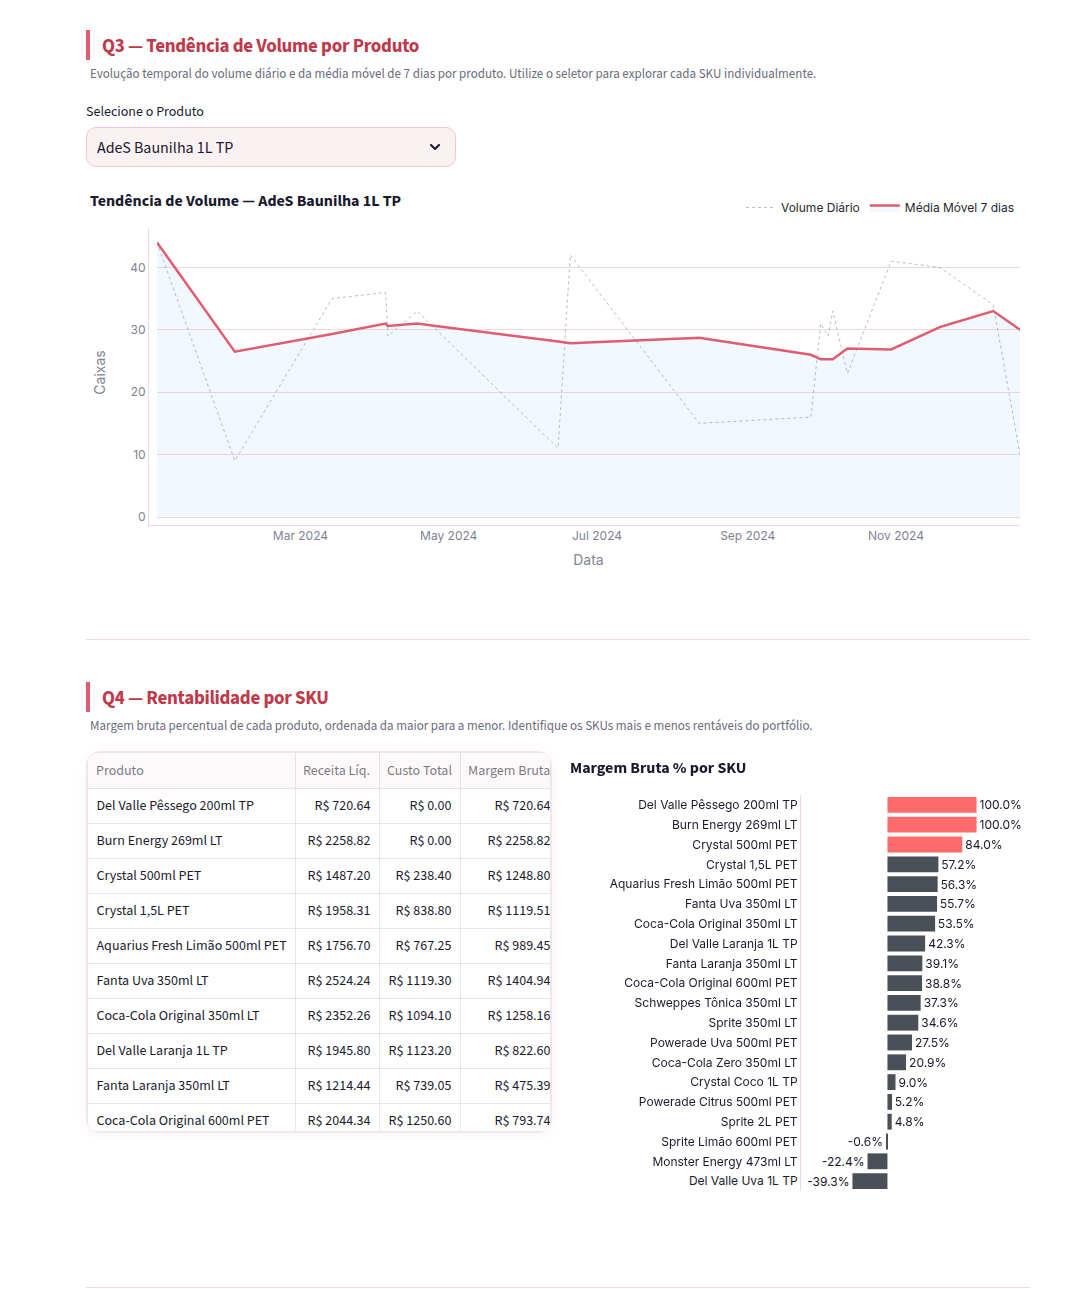
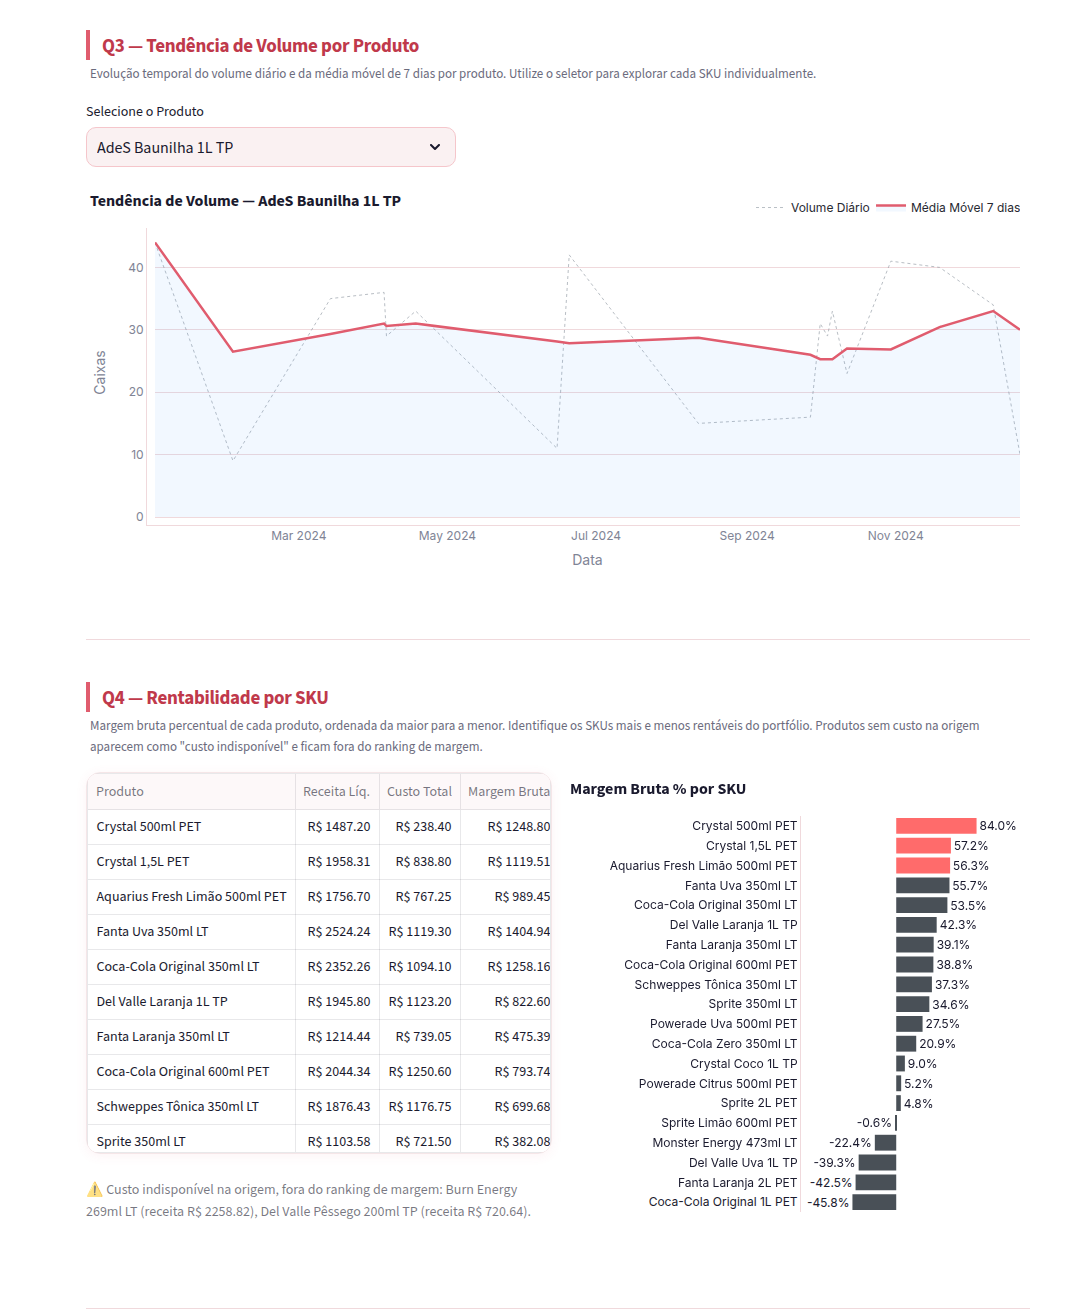
feat: Implement handling for unavailable cost and price in product data (DQ-09)

diff --git a/streamlit/main.py b/streamlit/main.py
@@ -170,7 +170,7 @@ try:
     df_q1 = run_query("SELECT * FROM gold.vw_q1_ranking_vendas ORDER BY regiao, ranking")
     df_q2 = run_query("SELECT * FROM gold.vw_q2_volume_vs_meta ORDER BY canal")
     df_q3 = run_query("SELECT * FROM gold.vw_q3_tendencia_volume ORDER BY nome_produto, data_completa")
-    df_q4 = run_query("SELECT * FROM gold.vw_q4_margem_bruta ORDER BY margem_bruta_percentual DESC")
+    df_q4 = run_query("SELECT * FROM gold.vw_q4_margem_bruta ORDER BY margem_bruta_percentual DESC NULLS LAST")
     db_ok = True
 except Exception as exc:
     st.error(f" Falha ao conectar ao banco de dados: `{exc}`")
@@ -402,23 +402,30 @@ st.markdown("---")
 st.markdown('<p class="section-title">Q4 — Rentabilidade por SKU</p>', unsafe_allow_html=True)
 st.markdown(
     '<p class="section-desc">Margem bruta percentual de cada produto, ordenada da maior para a menor. '
-    'Identifique os SKUs mais e menos rentáveis do portfólio.</p>',
+    'Identifique os SKUs mais e menos rentáveis do portfólio. Produtos sem custo na origem aparecem '
+    'como "custo indisponível" e ficam fora do ranking de margem.</p>',
     unsafe_allow_html=True,
 )
+
+# Produtos sem custo na origem (DQ-09): custo e margem NULL na view, fora do ranking e do gráfico
+df_q4_com_custo = df_q4[df_q4["custo_disponivel"]]
+df_q4_sem_custo = df_q4[~df_q4["custo_disponivel"]]
 
 col_t, col_chart = st.columns([1, 1])
 
 with col_t:
-    # Performance: limita a 20 SKUs mais relevantes antes de renderizar
-    df_q4_display = (
-        df_q4
-        .sort_values("margem_bruta_percentual", ascending=False)
-        .head(20)[["nome_produto", "receita_liquida_total", "custo_total", "margem_bruta", "margem_bruta_percentual"]]
-        .reset_index(drop=True)
+    # Top 20 por margem e, ao final, os SKUs sem custo (com receita, sem margem)
+    q4_cols = ["nome_produto", "receita_liquida_total", "custo_total", "margem_bruta", "margem_bruta_percentual"]
+    df_q4_display = pd.concat([
+        df_q4_com_custo.sort_values("margem_bruta_percentual", ascending=False).head(20)[q4_cols],
+        df_q4_sem_custo.sort_values("nome_produto")[q4_cols],
+    ]).reset_index(drop=True)
+    df_q4_display["observacao"] = (
+        df_q4_display["margem_bruta_percentual"].isna().map({True: "custo indisponível", False: ""})
     )
 
     # Valor máximo para normalizar a barra de progresso
-    margem_max = float(df_q4_display["margem_bruta_percentual"].max())
+    margem_max = float(df_q4_com_custo["margem_bruta_percentual"].max())
 
     st.dataframe(
         df_q4_display,
@@ -451,14 +458,26 @@ with col_t:
                 min_value=0,
                 max_value=margem_max,
             ),
+            "observacao": st.column_config.TextColumn(
+                "Observação",
+                help="Custo indisponível: a origem traz custo <= 0 ou ausente (margem não calculada)",
+            ),
         },
         hide_index=True,
     )
 
+    if not df_q4_sem_custo.empty:
+        itens = ", ".join(
+            # "\\$" escapa o cifrão: o Markdown do Streamlit trata "$...$" como LaTeX
+            f"{r.nome_produto} (receita R\\$ {r.receita_liquida_total:.2f})"
+            for r in df_q4_sem_custo.sort_values("nome_produto").itertuples()
+        )
+        st.caption(f"⚠ Custo indisponível na origem, fora do ranking de margem: {itens}.")
+
 with col_chart:
     # Ordena ascendente para o Plotly renderizar o mais rentável no topo
     df_q4_sorted = (
-        df_q4
+        df_q4_com_custo
         .sort_values("margem_bruta_percentual", ascending=True)
         .tail(20)
         .reset_index(drop=True)

diff --git a/tests/unit/test_clean_produtos.py b/tests/unit/test_clean_produtos.py
@@ -1,0 +1,56 @@
+import pandas as pd
+import pytest
+
+from pipeline.silver.clean_produtos import flag_valores_indisponiveis
+
+
+def produtos(custos, precos=None):
+    precos = precos if precos is not None else [5.0] * len(custos)
+    return pd.DataFrame({
+        "id_produto": [f"P{i:03d}" for i in range(1, len(custos) + 1)],
+        "custo_unitario": custos,
+        "preco_tabela": precos,
+    })
+
+
+class TestFlagValoresIndisponiveis:
+    def test_custo_positivo_mantido_e_disponivel(self):
+        df = flag_valores_indisponiveis(produtos([2.35]))
+        assert df["custo_unitario"].tolist() == [2.35]
+        assert df["custo_disponivel"].tolist() == [True]
+
+    @pytest.mark.parametrize("custo", [0.0, -1.5, None, float("nan"), "abc"])
+    def test_custo_zero_negativo_nulo_ou_invalido_vira_nulo_com_flag(self, custo):
+        df = flag_valores_indisponiveis(produtos([custo]))
+        assert pd.isna(df["custo_unitario"].iloc[0])
+        assert df["custo_disponivel"].tolist() == [False]
+
+    @pytest.mark.parametrize("preco", [0.0, -2.0, None])
+    def test_preco_invalido_segue_a_mesma_regra(self, preco):
+        df = flag_valores_indisponiveis(produtos([1.0], precos=[preco]))
+        assert pd.isna(df["preco_tabela"].iloc[0])
+        assert df["preco_disponivel"].tolist() == [False]
+        assert df["custo_disponivel"].tolist() == [True]
+
+    def test_produto_nunca_e_descartado(self):
+        # Caso real da origem: P012 e P019 com custo 0.00 continuam na Silver
+        df = flag_valores_indisponiveis(produtos([1.2, 0.0, 3.1, 0.0]))
+        assert df["id_produto"].tolist() == ["P001", "P002", "P003", "P004"]
+        assert df["custo_disponivel"].tolist() == [True, False, True, False]
+
+    def test_flags_sao_bool_nativo(self):
+        # bool (não object/boolean nullable): vira boolean no Postgres e nunca é nulo
+        df = flag_valores_indisponiveis(produtos([1.0, None]))
+        assert df["custo_disponivel"].dtype == bool
+        assert df["preco_disponivel"].dtype == bool
+
+    def test_nao_altera_o_dataframe_de_entrada(self):
+        entrada = produtos([0.0])
+        flag_valores_indisponiveis(entrada)
+        assert entrada["custo_unitario"].tolist() == [0.0]
+        assert "custo_disponivel" not in entrada.columns
+
+    def test_entrada_vazia(self):
+        df = flag_valores_indisponiveis(produtos([]))
+        assert df.empty
+        assert {"custo_disponivel", "preco_disponivel"} <= set(df.columns)

diff --git a/pipeline/silver/clean_produtos.py b/pipeline/silver/clean_produtos.py
@@ -6,6 +6,27 @@ from pipeline.common.validators import PATTERN_ID_PRODUTO, clean_text, normalize
 
 logger = get_logger(__name__)
 
+# Valor monetário sem significado (<= 0 ou ausente) vira nulo e ganha a flag `<flag> = False`
+VALORES_MONETARIOS = {"custo_unitario": "custo_disponivel", "preco_tabela": "preco_disponivel"}
+
+
+def flag_valores_indisponiveis(df: pd.DataFrame) -> pd.DataFrame:
+    """Sinaliza custo e preço indisponíveis sem descartar o produto (DQ-09, opção A).
+
+    `custo_unitario`/`preco_tabela` nulo, não numérico ou <= 0 vira NULL, e a flag
+    correspondente (`custo_disponivel`/`preco_disponivel`) fica False. O produto continua
+    na Silver: as vendas dele seguem contando em receita e volume, e só a margem deixa de
+    ser calculada (custo zero produziria margem de 100%).
+    """
+    df = df.copy()
+    for col, flag in VALORES_MONETARIOS.items():
+        valor = pd.to_numeric(df[col], errors="coerce")
+        disponivel = valor > 0
+        df[col] = valor.where(disponivel)
+        df[flag] = disponivel.astype(bool)
+    return df
+
+
 def main():
     logger.info("Iniciando processamento Silver para Produtos")
     
@@ -48,7 +69,13 @@ def main():
 
         df = df.sort_values("_ingested_at").drop_duplicates(subset=["id_produto"], keep="last")
         logger.info(f"Deduplicação concluída. Linhas finais: {len(df)}")
-        
+
+        df = flag_valores_indisponiveis(df)
+        for col, flag in VALORES_MONETARIOS.items():
+            sem_valor = sorted(df.loc[~df[flag], "id_produto"].tolist())
+            if sem_valor:
+                logger.warning(f"{len(sem_valor)} produtos sem {col} válido ({flag}=false): {sem_valor}")
+
         write_silver(fs, df, "s3://silver/produtos/produtos_clean.parquet")
         logger.info("[OK] Tabela de Produtos salva com sucesso em silver/produtos/!")
         

diff --git a/README.md b/README.md
@@ -39,7 +39,7 @@ Capturas da validação final da Sprint 1, em um ambiente recriado do zero (`doc
 
 ![Dashboard: Q3 e Q4](docs/images/dashboard_q3_q4.png)
 
-> Na Q4, `Del Valle Pêssego` e `Burn Energy` aparecem com margem de 100% porque a origem traz `custo_unitario = 0.00`. O problema foi identificado na validação e está no backlog (card DQ-09).
+> Na Q4, `Del Valle Pêssego` e `Burn Energy` aparecem como **custo indisponível**: a origem traz `custo_unitario = 0.00`. Eles continuam contando em receita e volume, mas ficam fora do ranking e do gráfico de margem (DQ-09).
 
 ---
 
@@ -128,13 +128,14 @@ Justificativas completas, no formato ADR: **[docs/decisoes_tratamento.md](docs/d
 |---|---|---|
 | Clientes | `id_cliente` no padrão `C9999`; `cnpj` e nome obrigatórios; 1 registro por `id_cliente`; CNPJ duplicado mantém o menor id | `silver/_quarentena/clientes/` |
 | Vendas | `id_venda` obrigatório; data válida (4 formatos aceitos); `qtd_caixas > 0`; `preco_unitario > 0`; `0 ≤ desconto_pct < 1`; cliente e produto existentes no cadastro | `silver/_quarentena/vendas/` |
-| Produtos | `id_produto` no padrão `P999` | apenas log (quarentena genérica no backlog, card ARQ-05) |
+| Produtos | `id_produto` no padrão `P999`; `custo_unitario`/`preco_tabela` `<= 0` ou ausente vira NULL com flag `custo_disponivel`/`preco_disponivel = false` (o produto é mantido e fica fora da margem) | apenas log (quarentena genérica no backlog, card ARQ-05) |
 | Financeiro | tipos e status mapeados para domínios fixos | — |
 
 Na última execução de referência, **3.482 vendas** chegaram à fato. A quarentena ficou com 18 vendas (6 com quantidade negativa, 3 com desconto ≥ 100%, 5 sem cliente e 4 com produto inválido) e 5 recadastros de clientes.
 
-**Testes dbt (65):**
+**Testes dbt (69):**
 - Unicidade e `not_null` de chaves.
+- Coerência entre flag e valor em `dim_produto`: custo disponível é sempre `> 0`, e indisponível é sempre NULL (idem para preço).
 - `relationships` da fato com as dimensões e com o seed de regras: um tipo de lançamento novo sem regra quebra o build.
 - Faixas de medidas em `stg_vendas`, como defesa em profundidade.
 - Testes dos seeds.
@@ -175,7 +176,9 @@ docker compose up -d --build
 > **Arquivos do dbt com dono root.** Versões anteriores rodavam o dbt como root, e `dbt/target`, `dbt/logs`, `dbt/dbt_packages` e `dbt/package-lock.yml` podem ter ficado com dono `root`. Para corrigir uma única vez:
 > `docker run --rm -v "$PWD/dbt:/w" alpine:3.20 sh -c "chown -R $(id -u):$(id -g) /w"`
 
-> **Atualizando um ambiente antigo.** Se você já tinha o ambiente rodando antes da Sprint 1, as credenciais e o volume do MinIO mudaram. Recrie os volumes com `docker compose down -v`. Isso apaga os dados locais, que se recriam rodando a DAG. Se preferir manter os volumes, a `fato_vendas` (incremental) ganhou colunas e precisa de um `dbt run --full-refresh --select fato_vendas`.
+> **Atualizando um ambiente da Sprint 1.** A partir do DQ-09, P012/P019 têm `custo_total`/`margem_bruta` NULL na `fato_vendas`. Como ela é incremental, as vendas antigas só são recalculadas com `dbt run --full-refresh --select fato_vendas+` (uma vez, depois de rodar a DAG; o `+` recria as views analíticas, que o full-refresh derruba em cascata).
+
+> **Atualizando um ambiente antigo.** Se você já tinha o ambiente rodando antes da Sprint 1, as credenciais e o volume do MinIO mudaram. Recrie os volumes com `docker compose down -v`. Isso apaga os dados locais, que se recriam rodando a DAG. Se preferir manter os volumes, a `fato_vendas` (incremental) ganhou colunas e precisa de um `dbt run --full-refresh --select fato_vendas+`.
 
 ---
 
@@ -251,9 +254,8 @@ Limitações assumidas conscientemente, com o card correspondente no [BACKLOG](B
 | A Silver é sobrescrita com `rm` + `write`, sem atomicidade | Uma falha no meio deixa a Silver parcial | ARQ-02 |
 | A carga usa `DROP TABLE ... CASCADE` e tipos inferidos pelo pandas | Força recriar as views `stg_*` a cada execução | ARQ-03 |
 | O incremental da fato filtra por `data_emissao` | Status financeiro atualizado depois não é reprocessado | MOD-01 |
-| Sem testes unitários Python e sem CI | Validação manual e pelos testes dbt | ENG-02, ENG-03 |
+| Sem CI | Testes unitários e e2e rodados manualmente | ENG-03 |
 | Execuções simultâneas corromperiam a Silver (`rm` + escrita) | Mitigado com `max_active_runs=1`; a correção estrutural é a escrita atômica | ARQ-01, ARQ-02 |
-| `custo_unitario = 0` na origem para 2 produtos, sem validação | Margem de 100% na Q4 para esses SKUs | DQ-09 |
 | As metas são fictícias e os dados são sintéticos, com tipos de lançamento uniformes | Números ilustrativos, não comerciais | — |
 | Clima de uma única coordenada (Uberlândia) para 4 mesorregiões | Correlação clima × vendas aproximada | backlog |
 | `docker.sock` montado no Airflow | Equivale a acesso root no host; aceitável só em ambiente local | — |

diff --git a/docs/decisoes_tratamento.md b/docs/decisoes_tratamento.md
@@ -13,6 +13,7 @@ As decisões D1, D2 e D3 foram aprovadas no [plano da Sprint 1](backlog/SPRINT-0
 | [006](#adr-006--metas-fictícias-via-seed-d3) | Metas fictícias via seed (D3) | Gold | Aceita |
 | [007](#adr-007--clima-diário-de-uberlândia) | Clima diário de Uberlândia | Bronze / Gold | Aceita |
 | [008](#adr-008--configuração-e-credenciais-via-ambiente) | Configuração e credenciais via ambiente | Infra | Aceita |
+| [009](#adr-009--produtos-sem-custo-na-origem-dq-09-d1-da-sprint-2) | Produtos sem custo na origem (DQ-09) | Silver / Gold | Aceita |
 
 ---
 
@@ -117,3 +118,15 @@ As decisões D1, D2 e D3 foram aprovadas no [plano da Sprint 1](backlog/SPRINT-0
 - `docker.sock` montado com leitura e escrita: `:ro` não restringe a API do Docker e daria falsa sensação de segurança.
 
 **Consequências.** O ambiente é reproduzível em um clone novo. Os riscos aceitos para uso local (`docker.sock` equivale a root no host; imagem do MinIO congelada) estão documentados no README.
+
+## ADR-009 · Produtos sem custo na origem (DQ-09, D1 da Sprint 2)
+
+**Contexto.** `P012` (Del Valle Pêssego) e `P019` (Burn Energy) chegam com `custo_unitario = 0.00`. Com custo zero, a Q4 mostrava margem de 100% para esses SKUs.
+
+**Decisão (opção A).**
+- Na Silver (`flag_valores_indisponiveis`, em `clean_produtos.py`), `custo_unitario` e `preco_tabela` nulos, não numéricos ou `<= 0` viram NULL, com as flags `custo_disponivel`/`preco_disponivel = false`. Os produtos afetados são listados no log.
+- O produto **não** vai para a quarentena. Se fosse, as vendas dele virariam órfãs e sairiam de receita e volume (Q1–Q3).
+- A fato herda o NULL: `custo_total` e `margem_bruta` ficam nulos para esses SKUs. A `vw_q4` expõe `custo_disponivel` e deixa custo e margem nulos quando a flag é falsa. O Streamlit mostra "custo indisponível" na tabela e tira esses produtos do gráfico.
+- Teste dbt em `dim_produto`: a flag e o valor precisam concordar (disponível ⇒ `> 0`; indisponível ⇒ NULL).
+
+**Consequências.** A margem deixa de ser inflada, e a falta de custo fica visível em vez de escondida. Receita e volume de P012/P019 continuam nas Q1–Q3, sem alteração. Quando a origem trouxer o custo, a flag passa a `true` sem mudança de código (só a fato incremental precisa de `dbt run --full-refresh --select fato_vendas+` para recalcular vendas antigas, ver MOD-01).

diff --git a/docs/backlog/SPRINT-02.md b/docs/backlog/SPRINT-02.md
@@ -137,6 +137,13 @@ pipeline/common/
   - Teste em `dim_produto`: `custo_unitario > 0` quando `custo_disponivel`.
 - **`vw_q4`:** margem calculada só para produtos com custo, e os demais aparecem com margem nula. O Streamlit mostra "custo indisponível" na tabela e tira esses produtos do gráfico de margem.
 - **Validação:** P012 e P019 sem margem de 100% na Q4; receita e volume desses SKUs mantidos nas Q1–Q3.
+- **Resultado da execução:**
+  - Silver: `flag_valores_indisponiveis` em `clean_produtos.py` (custo/preço `<= 0`, nulo ou não numérico vira NULL, com `custo_disponivel`/`preco_disponivel`). O log lista `['P012', 'P019']`. 13 testes unitários novos (173 no total), e o `clean_produtos` entrou no gate de cobertura (100%).
+  - dbt: as flags foram expostas em `stg_produtos`/`dim_produto`; 4 testes novos (`not_null` das flags e 2 `expression_is_true` de coerência flag × valor), **69 PASS**. A `vw_q4` ganhou `custo_disponivel`, com custo e margem NULL quando a flag é falsa.
+  - e2e isolado comparado ao baseline: mudaram só os 6 datasets de produtos/fato/Q4. Os outros 22, **incluindo `vw_q1`, `vw_q2` e `vw_q3`**, ficaram idênticos. Comparando com o HEAD anterior (worktree), a `fato_vendas` sem `custo_total`/`margem_bruta` é idêntica nas 3.482 linhas, e as 3.228 vendas dos demais SKUs são idênticas por inteiro. Só as 254 vendas de P012/P019 mudaram (custo e margem passaram a NULL).
+  - Q4: nenhum produto com margem ≥ 100% (máxima de 83,97%, Crystal 500ml). P012/P019 aparecem com receita (R$ 720,64 e R$ 2.258,82 nas vendas pagas) e margem NULL.
+  - Ambiente real: DAG `dq09_validacao` 14/14 `success`. A fato incremental ficou, como esperado, com `custo_total = 0.00` nas vendas antigas desses SKUs até o `dbt run --full-refresh --select fato_vendas+`. Sem o `+`, o full-refresh derruba em cascata as views `vw_q*`. O README foi corrigido nos dois pontos que mostravam o comando sem `+`. Depois do full-refresh: 3.482 linhas, receita total igual (R$ 597.343,23), 69 PASS e 0 arquivos de root em `dbt/`.
+  - Streamlit: a tabela marca "custo indisponível" (coluna Observação) e ganhou um aviso visível abaixo dela, porque as linhas ficavam fora da área visível da tabela. O gráfico de margem só mostra produtos com custo. A captura `dashboard_q3_q4.png` foi atualizada.
 
 ### Fase 4: dbt
 

diff --git a/BACKLOG.md b/BACKLOG.md
@@ -83,9 +83,9 @@ Os órfãos já são removidos na Silver, então os testes de relacionamento com
 _Achado na validação final da Sprint 1._ `P012` (Del Valle Pêssego) e `P019` (Burn Energy) chegam com `custo_unitario = 0.00` na origem e aparecem na Q4 com margem de 100%. Nenhuma regra valida custo hoje.
 
 - **Critérios de aceite:**
-  - [ ] Regra na Silver de produtos: `custo_unitario > 0` e `preco_tabela > 0` (ou custo zero sinalizado explicitamente)
-  - [ ] Produto inválido vai para quarentena, ou é mantido com flag `custo_indisponivel` e excluído da margem (decisão de negócio)
-  - [ ] Teste dbt em `dim_produto.custo_unitario`
+  - [x] Regra na Silver de produtos: `custo_unitario > 0` e `preco_tabela > 0` (ou custo zero sinalizado explicitamente)
+  - [x] Produto inválido vai para quarentena, ou é mantido com flag `custo_indisponivel` e excluído da margem (decisão de negócio)
+  - [x] Teste dbt em `dim_produto.custo_unitario`
 
 ### INF-04 · Artefatos do dbt criados como root
 `infra` · 🟢 Baixa · `P`

diff --git a/docs/arquitetura_dados.md b/docs/arquitetura_dados.md
@@ -126,8 +126,10 @@ erDiagram
         text marca
         text embalagem
         numeric volume_ml
-        numeric preco_tabela
-        numeric custo_unitario
+        numeric preco_tabela "NULL se indisponível"
+        numeric custo_unitario "NULL se indisponível"
+        boolean custo_disponivel
+        boolean preco_disponivel
     }
 
     dim_representante {
